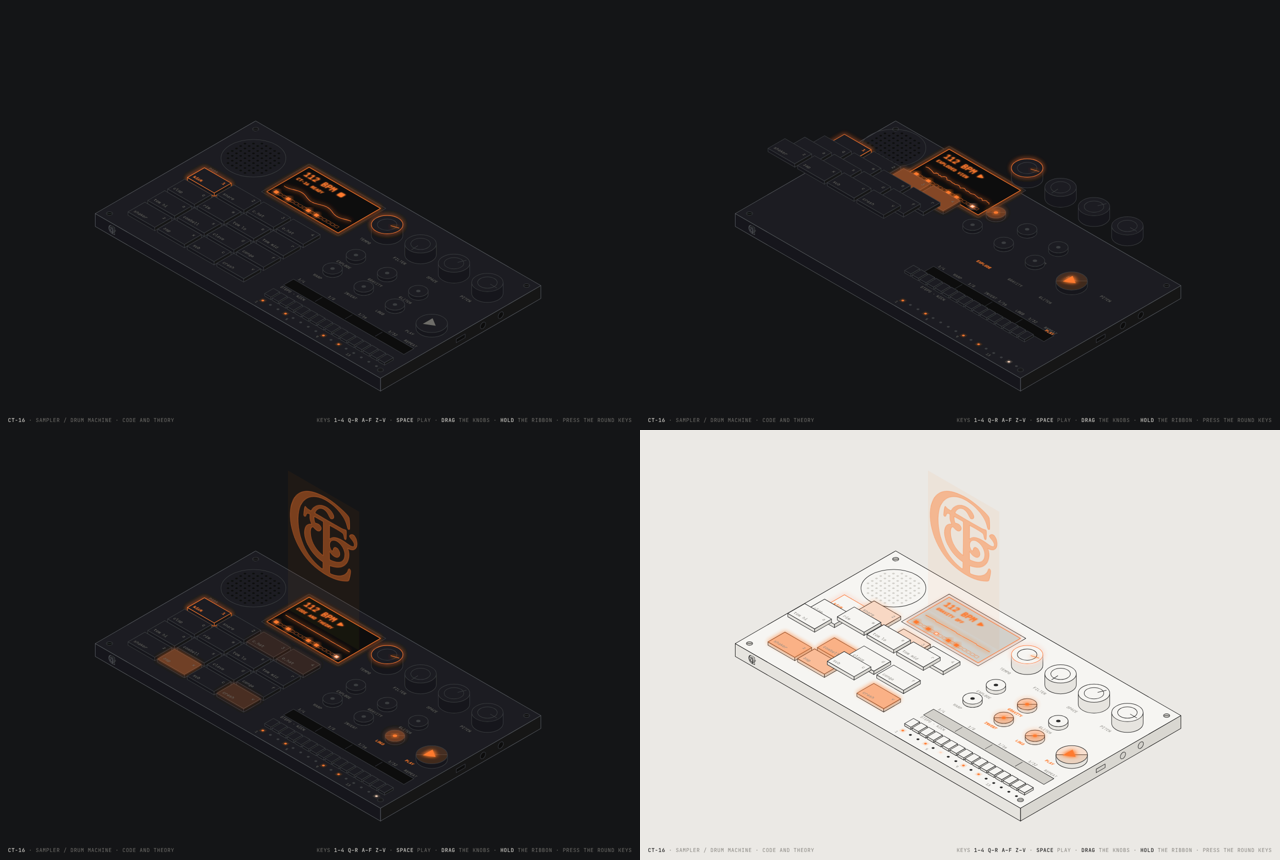
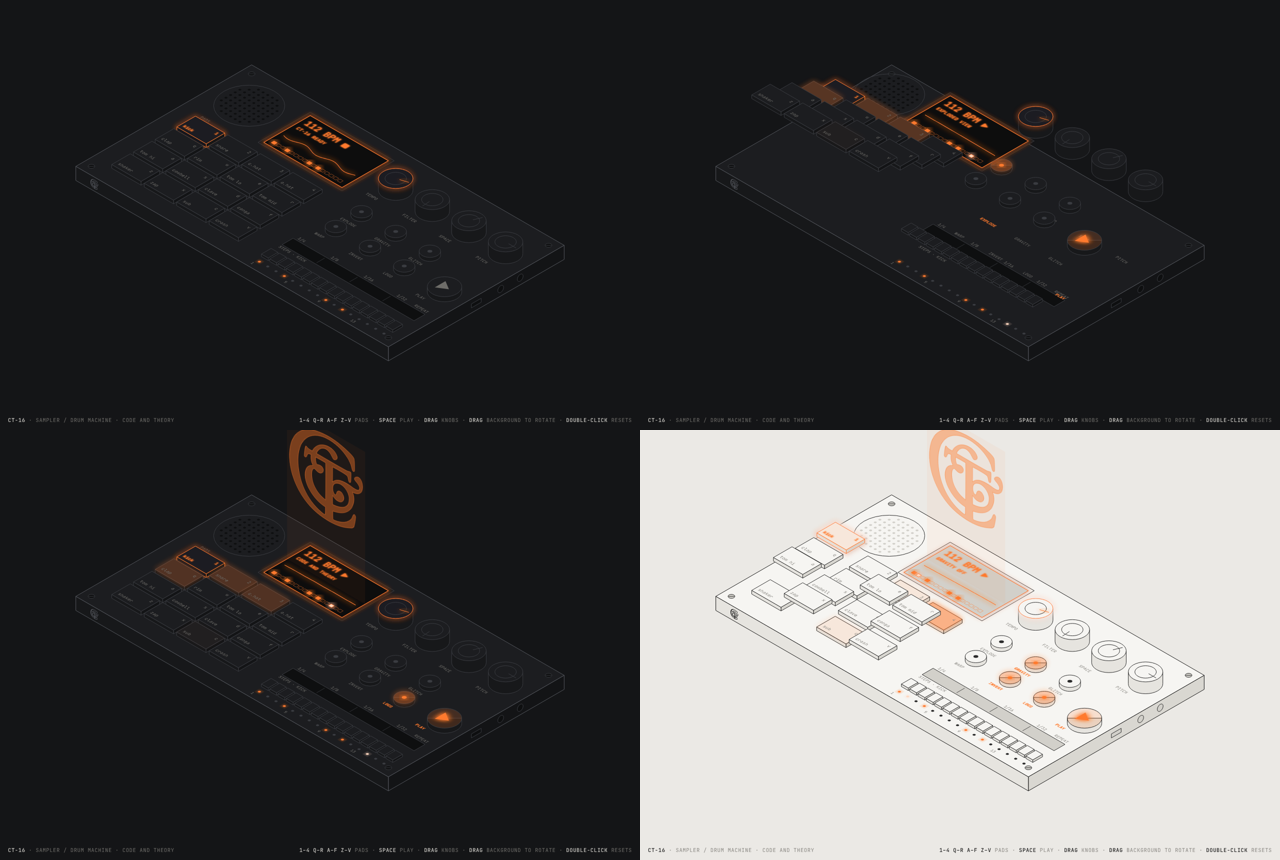
CT-16: orbit camera (drag to rotate/tilt), drop visual glitch and warp
The isometric projection is now a yaw/elevation orthographic camera:
visible box faces and draw order are computed per view, cylinders and
printed text follow the camera. Double-click returns to true isometric.
Glitch and Warp keep their audio effects but no longer distort the drawing.

Claude-Session: https://claude.ai/code/session_016YEvjY8Sb1Rc6rgUfMqNYL

diff --git a/ct-16/index.html b/ct-16/index.html
@@ -19,7 +19,7 @@
 html,body{height:100%;margin:0}
 body{background:var(--bg);color:var(--ink);font:400 12px/1.4 var(--mono);overflow:hidden;transition:background .5s;-webkit-font-smoothing:antialiased;user-select:none;-webkit-user-select:none}
 #wrap{position:fixed;inset:0;display:grid;grid-template-rows:minmax(0,1fr) auto}
-svg#dev{width:100%;height:100%;display:block;overflow:visible;touch-action:none}
+svg#dev{width:100%;height:100%;display:block;overflow:visible;touch-action:none;cursor:grab}
 .foot{display:flex;flex-wrap:wrap;justify-content:space-between;gap:6px 18px;padding:10px max(16px,env(safe-area-inset-left,0px)) calc(12px + env(safe-area-inset-bottom,0px)) max(16px,env(safe-area-inset-left,0px));font-size:10.5px;letter-spacing:.06em;text-transform:uppercase;color:var(--muted)}
 .foot b{color:var(--ink);font-weight:500}
 
@@ -54,36 +54,46 @@ polygon,polyline,line,path.ln,rect.ln{stroke:var(--line);stroke-width:1;vector-e
       <filter id="glitch" x="-10%" y="-10%" width="120%" height="120%"><feTurbulence id="gt" type="fractalNoise" baseFrequency="0.001 0.22" numOctaves="1" seed="2" result="t"/><feDisplacementMap id="gd" in="SourceGraphic" in2="t" scale="0" xChannelSelector="R" yChannelSelector="G"/></filter>
       <path id="ctlogo" d="M449.058 0.563424C486.612 -1.26056 525.096 1.49671 562.302 6.63126C600.769 11.9384 748.132 44.482 769.491 73.3887C777.317 83.9885 779.641 183.414 777.16 199.167C776.455 203.638 774.76 207.775 770.912 210.421C767.25 212.937 761.639 213.725 757.327 212.893C755.599 212.559 753.623 211.733 752.579 210.252C747.344 202.817 744.764 190.439 741.809 181.857C737.607 169.656 732.783 158.223 725.763 147.349C688.523 89.6665 617.544 53.9091 552.004 39.7234C456.298 19.0106 356.2 34.4799 273.63 87.7717C190.902 141.169 133.573 228.985 112.956 324.805C88.4068 438.909 106.484 580.139 170.657 678.992C220.564 755.871 296.581 807.031 386.06 826.036C396.416 828.236 415.946 834.091 425.096 828.132C430.718 820.584 428.773 761.217 428.759 747.374C293.343 744.858 153.823 633.726 193.338 486.53C201.06 457.769 221.556 427.784 246.623 411.575C256.635 405.102 268.909 399.477 279.547 393.608C255.077 358.537 255.44 332.559 259.264 292.174C220.07 294.287 220.447 299.58 203.581 338.413C195.967 355.941 176.143 352.86 176.618 344.492C177.697 325.444 185.703 248.774 193.861 236.333C202.511 230.973 207.735 237.414 215.065 241.552C229.146 249.503 256.584 247.497 272.883 247.333C298.149 194.649 336.794 150.288 390.352 125.347C429.882 106.939 477.807 98.0485 519.968 112.47C547.003 121.718 579.816 146.183 568.347 178.896C565.185 193.247 533.389 215.1 520.327 203.712C506.642 191.783 497.922 174.397 481.712 162.333C429.768 123.679 369.83 163.295 340.382 210.033C332.03 223.29 327.414 233.724 321.937 248.266C354.838 246.808 401.242 248.435 435.17 248.479C513.487 248.904 591.808 248.545 670.119 247.401C679.062 246.853 685.154 246.376 693.969 245.019C703.667 243.526 722.966 236.49 731.437 237.715C732.222 238.397 732.799 239.095 733.258 240.041C736.437 246.609 733.671 316.641 732.365 328.373C731.818 333.276 730.782 338.583 728.69 343.076C727.263 346.14 724.694 348.552 721.431 349.582C716.865 351.024 712.657 348.339 708.706 346.357C702.508 332.288 701.646 308.15 690.069 297.612C676.317 285.093 539.692 290.475 515.372 291.185C514.467 340.581 516.159 399.974 513.479 447.903C516.575 443.562 518.686 441.331 522.193 437.459C573.278 379.907 647.512 373.978 719.65 379.489C749.691 381.784 838.31 403.47 837.906 350.605C837.771 333.131 816.805 315.537 802.819 307.321C794.623 302.506 775.637 296.598 775.103 285.847C775.287 265.307 806.644 244.377 824.663 244.092C863.541 243.472 873.648 291.668 873.537 319.383C873.254 389.611 820.54 432.955 752.888 432.532C787.768 484.863 763.718 568.676 731.679 617.056C680.564 694.24 604.823 728.484 517.288 746.598C517.351 760.661 516.456 820.911 520.833 829.621C526.541 833.226 535.429 831.737 541.806 830.834C617.566 820.116 698.175 780.552 740.337 714.854C751.965 698.658 755.296 675.244 765.934 659.21C773.974 647.091 791.593 655.7 790.638 671.868C788.485 708.899 778.257 746.84 769.625 782.915C761.354 802.691 736.38 811.421 718.639 819.834C630.857 861.459 538.274 877.776 441.547 873.225C330.246 867.991 225.873 839.464 141.425 763.571C53.5155 684.567 5.46508 569.307 0.45419 452.05C-4.32037 340.321 28.4158 221.829 104.95 138.242C198.387 36.9875 316.858 6.98482 449.058 0.563424ZM678.181 448.128C658.039 430.218 631.545 421.152 604.653 422.969C602.837 423.093 601.022 423.248 599.209 423.424C545.336 433.091 508.596 470.286 518.322 527.611C522.102 549.889 550.794 583.079 561.471 546.483C567.043 527.383 571.518 506.813 594.366 501.351C604.398 499.054 622.731 500.367 630.301 506.559C671.641 540.375 641.182 603.261 593.698 610.572C562.663 615.35 546.632 609.31 522.895 593.329C521.962 592.7 521.042 592.048 520.136 591.38C517.546 589.324 516.77 587.948 513.95 587.711C513.509 592.409 513.878 597.165 513.945 601.88C514.303 627.54 515.419 653.401 515.316 679.049C608.567 673.696 713.709 633.355 713.644 520.088C713.628 494.533 697.309 464.96 678.181 448.128ZM432.254 290.106C415.622 289.457 398.976 289.281 382.335 289.572C362.656 289.825 331.386 291.214 312.594 290.348C310.37 315.356 311.93 338.868 327.78 359.223C346.954 353.422 372.766 344.616 391.891 354.622C410.569 364.394 407.445 387.221 398.173 402.76C389.947 416.313 376.758 426.122 361.412 430.099C339.324 435.671 318.065 424.541 298.211 415.716C252.689 432.333 264.224 523.208 277.142 558.31C280.481 567.51 284.654 576.387 289.598 584.834C319.095 631.205 357.907 658.38 411.949 670.301C418.333 671.649 424.734 672.923 431.147 674.127C432.597 590.832 433.278 507.524 433.186 424.216C433.2 380.361 433.96 333.75 432.254 290.106Z" fill-rule="evenodd"/>
     </defs>
-    <g id="root" filter="url(#glitch)"><g id="scene"></g></g>
+    <g id="root"><g id="scene"></g></g>
   </svg>
-  <div class="foot"><span><b>CT-16</b> · Sampler / drum machine · Code and Theory</span><span id="hint">Keys <b>1–4 Q–R A–F Z–V</b> · <b>Space</b> play · <b>drag</b> the knobs · <b>hold</b> the ribbon · press the round keys</span></div>
+  <div class="foot"><span><b>CT-16</b> · Sampler / drum machine · Code and Theory</span><span id="hint"><b>1–4 Q–R A–F Z–V</b> pads · <b>Space</b> play · <b>drag</b> knobs · <b>drag</b> background to rotate · <b>double-click</b> resets</span></div>
 </div>
 
 <script>
 (function(){
-var C=0.8660254, S=0.5, RX=1.2247449, RY=0.7071068, scene=document.getElementById("scene"), svg=document.getElementById("dev");
-svg.setAttribute("viewBox","-72 -52 194 160");
-function P(x,y,z){return [(x-y)*C,(x+y)*S-z]}
+var scene=document.getElementById("scene"), svg=document.getElementById("dev");
+svg.setAttribute("viewBox","-96 -78 192 146");
+/* orthographic camera: yaw around the vertical axis, elevation phi. yaw 0 + phi 35.26° = true isometric */
+var ISO_PHI=Math.asin(1/Math.sqrt(3)), cam={yaw:0,phi:ISO_PHI}, K=1.2247449, CX=64, CY=36, cy_=1, sy_=0, sp_=0, cp_=0;
+function camUpdate(){cy_=Math.cos(cam.yaw);sy_=Math.sin(cam.yaw);sp_=Math.sin(cam.phi);cp_=Math.cos(cam.phi)}
+camUpdate();
+function rot(x,y){var dx=x-CX,dy=y-CY,a=dx*cy_-dy*sy_,b=dx*sy_+dy*cy_;return [(a-b)/Math.SQRT2,(a+b)/Math.SQRT2]}
+function P(x,y,z){var r=rot(x,y);return [r[0]*K,(r[1]*sp_-z*cp_)*K]}
+function depth(x,y){return rot(x,y)[1]}
+function nview(nx,ny){var a=nx*cy_-ny*sy_,b=nx*sy_+ny*cy_;return [(a-b)/Math.SQRT2,(a+b)/Math.SQRT2]}
+function vis(nx,ny){return nview(nx,ny)[1]>0.001}
 function f2(n){return n.toFixed(2)}
 function pts(a){return a.map(function(p){var q=P(p[0],p[1],p[2]);return f2(q[0])+","+f2(q[1])}).join(" ")}
 function poly(a,cls,extra){return '<polygon class="'+(cls||"")+'" points="'+pts(a)+'" '+(extra||"")+'/>'}
 function box(x,y,z,w,d,h,cls,extra){
-  return '<g class="'+(cls||"")+'" '+(extra||"")+'>'+
-    poly([[x+w,y,z+h],[x+w,y+d,z+h],[x+w,y+d,z],[x+w,y,z]],"fr")+
-    poly([[x,y+d,z+h],[x+w,y+d,z+h],[x+w,y+d,z],[x,y+d,z]],"ff")+
-    poly([[x,y,z+h],[x+w,y,z+h],[x+w,y+d,z+h],[x,y+d,z+h]],"ft")+'</g>';
+  var sides=[[1,0,[[x+w,y,z+h],[x+w,y+d,z+h],[x+w,y+d,z],[x+w,y,z]]],[-1,0,[[x,y,z+h],[x,y+d,z+h],[x,y+d,z],[x,y,z]]],
+             [0,1,[[x,y+d,z+h],[x+w,y+d,z+h],[x+w,y+d,z],[x,y+d,z]]],[0,-1,[[x,y,z+h],[x+w,y,z+h],[x+w,y,z],[x,y,z]]]], g="";
+  sides.forEach(function(f){var n=nview(f[0],f[1]);if(n[1]>0.001)g+=poly(f[2],n[0]>0?"fr":"ff")});
+  return '<g class="'+(cls||"")+'" '+(extra||"")+'>'+g+poly([[x,y,z+h],[x+w,y,z+h],[x+w,y+d,z+h],[x,y+d,z+h]],"ft")+'</g>';
 }
 /* vertical cylinder: side band, then top ellipse */
 function cyl(cx,cy,z,r,h,cls,extra,topCls){
-  var b=P(cx,cy,z), X=b[0], Yb=b[1], Yt=Yb-h, rx=RX*r, ry=RY*r;
+  var b=P(cx,cy,z), X=b[0], Yb=b[1], Yt=Yb-h*cp_*K, rx=K*r, ry=K*r*sp_;
   return '<g class="'+(cls||"")+'" '+(extra||"")+'>'+
     '<path class="ln ff" d="M'+f2(X-rx)+' '+f2(Yt)+'L'+f2(X-rx)+' '+f2(Yb)+'A'+f2(rx)+' '+f2(ry)+' 0 0 0 '+f2(X+rx)+' '+f2(Yb)+'L'+f2(X+rx)+' '+f2(Yt)+'Z" style="stroke:var(--line);vector-effect:non-scaling-stroke"/>'+
     '<ellipse class="ln '+(topCls||"ft")+'" cx="'+f2(X)+'" cy="'+f2(Yt)+'" rx="'+f2(rx)+'" ry="'+f2(ry)+'" style="stroke:var(--line);vector-effect:non-scaling-stroke"/></g>';
 }
-function ell(cx,cy,z,r,cls,style){var b=P(cx,cy,z);return '<ellipse class="'+cls+'" cx="'+f2(b[0])+'" cy="'+f2(b[1])+'" rx="'+f2(RX*r)+'" ry="'+f2(RY*r)+'" style="'+(style||"")+'"/>'}
-function mTop(x,y,z,k){var q=P(x,y,z);return "matrix("+(C*k)+" "+(S*k)+" "+(-C*k)+" "+(S*k)+" "+f2(q[0])+" "+f2(q[1])+")"}
-function mFront(x,y,z,k){var q=P(x,y,z);return "matrix("+(C*k)+" "+(S*k)+" 0 "+k+" "+f2(q[0])+" "+f2(q[1])+")"}
-function mRight(x,y,z,k){var q=P(x,y,z);return "matrix("+(C*k)+" "+(-S*k)+" 0 "+k+" "+f2(q[0])+" "+f2(q[1])+")"}
+function ell(cx,cy,z,r,cls,style){var b=P(cx,cy,z);return '<ellipse class="'+cls+'" cx="'+f2(b[0])+'" cy="'+f2(b[1])+'" rx="'+f2(K*r)+'" ry="'+f2(K*r*sp_)+'" style="'+(style||"")+'"/>'}
+function basis(dx,dy,dz){var a=P(0,0,0),b=P(dx,dy,dz);return [b[0]-a[0],b[1]-a[1]]}
+function mat(u,v,q,k){return "matrix("+(u[0]*k).toFixed(4)+" "+(u[1]*k).toFixed(4)+" "+(v[0]*k).toFixed(4)+" "+(v[1]*k).toFixed(4)+" "+f2(q[0])+" "+f2(q[1])+")"}
+function mTop(x,y,z,k){return mat(basis(1,0,0),basis(0,1,0),P(x,y,z),k)}
+function mFront(x,y,z,k){return mat(basis(1,0,0),basis(0,0,-1),P(x,y,z),k)}
+function mRight(x,y,z,k){return mat(basis(0,-1,0),basis(0,0,-1),P(x,y,z),k)}
 function tTop(x,y,z,s,size,anchor,cls){return '<text transform="'+mTop(x,y,z,size/10)+'" font-size="10" text-anchor="'+(anchor||"start")+'" class="'+(cls||"lbl")+'">'+s+'</text>'}
 function tFront(x,y,z,s,size,anchor,cls){return '<text transform="'+mFront(x,y,z,size/10)+'" font-size="10" text-anchor="'+(anchor||"start")+'" class="'+(cls||"lbl")+'">'+s+'</text>'}
 function tRight(x,y,z,s,size,anchor,cls){return '<text transform="'+mRight(x,y,z,size/10)+'" font-size="10" text-anchor="'+(anchor||"start")+'" class="'+(cls||"lbl")+'">'+s+'</text>'}
@@ -111,9 +121,9 @@ function render(){
   o.push(box(0,0,0,W,D,H,"hi"));
   [[3.2,3.2],[W-3.2,3.2],[3.2,D-3.2],[W-3.2,D-3.2]].forEach(function(p){o.push(ell(p[0],p[1],Z,1,"ln deep","stroke:var(--line);vector-effect:non-scaling-stroke"));o.push(line([p[0]-.6,p[1]+.6,Z],[p[0]+.6,p[1]-.6,Z]))});
   /* side details */
-  o.push('<g>'+[18,26].map(function(yy){var b=P(W,yy,2.5);return '<circle class="deep" r="1.2" transform="'+mRight(W,yy,2.5,1)+'" style="stroke:var(--line);vector-effect:non-scaling-stroke"/>'}).join("")+'</g>');
-  o.push(poly([[W,34,3.2],[W,38,3.2],[W,38,1.8],[W,34,1.8]],"deep"));
-  o.push('<use href="#ctlogo" class="logo-print" transform="'+mFront(6,D,4.1,3.2/874)+'"/>');
+  if(vis(1,0))o.push('<g>'+[18,26].map(function(yy){var b=P(W,yy,2.5);return '<circle class="deep" r="1.2" transform="'+mRight(W,yy,2.5,1)+'" style="stroke:var(--line);vector-effect:non-scaling-stroke"/>'}).join("")+'</g>');
+  if(vis(1,0))o.push(poly([[W,34,3.2],[W,38,3.2],[W,38,1.8],[W,34,1.8]],"deep"));
+  if(vis(0,1))o.push('<use href="#ctlogo" class="logo-print" transform="'+mFront(6,D,4.1,3.2/874)+'"/>');
   /* speaker: dot field in a circle */
   var sx=14, sy=15, sr=9.5, sz=Z+off.spk;
   o.push(ell(sx,sy,sz,sr+.8,"ln","fill:none;stroke:var(--line);vector-effect:non-scaling-stroke"));
@@ -142,7 +152,7 @@ function render(){
   o.push(tTop(70,59.2,Z,"STEPS · "+NAMES[st.sel].toUpperCase(),1.5,"start"));
   /* raised parts, back to front */
   var items=[];
-  ENC.forEach(function(en,k){items.push({k:en.x+ENCY,f:function(){
+  ENC.forEach(function(en,k){items.push({k:depth(en.x,ENCY),f:function(){
     var z=Z+off.enc, h=4.2, a=-Math.PI*.75+st.enc[k]*Math.PI*1.5, hot=k===0;
     var g=cyl(en.x,ENCY,z,ENCR,h,"",'data-act="enc" data-i="'+k+'"',hot?"ft glowring":"ft");
     g+=ell(en.x,ENCY,z+h,ENCR*.62,"","fill:none;stroke:var(--line);vector-effect:non-scaling-stroke;pointer-events:none");
@@ -151,23 +161,23 @@ function render(){
     if(hot)g=g.replace('class="ln ft glowring"','class="ln ft" style="stroke:var(--glow);vector-effect:non-scaling-stroke;filter:url(#glow)"');
     g+=tTop(en.x-ENCR,ENCY+ENCR+2.6,Z,en.lbl,1.5,"start");
     return g}})});
-  FX.forEach(function(f,k){var c=k%3,r=Math.floor(k/3),x=76+c*14,y=31+r*10.5;items.push({k:x+y,f:function(){
+  FX.forEach(function(f,k){var c=k%3,r=Math.floor(k/3),x=76+c*14,y=31+r*10.5;items.push({k:depth(x,y),f:function(){
     var on=st.fxOn[f[1]], z=Z+off.btn+(on?-.5:0);
     var g=cyl(x,y,z,3.1,1.4,on?"act":"",'data-act="fx" data-fx="'+f[1]+'"',on?"ft":"ft");
     if(on)g+=ell(x,y,z+1.4,3.1,"","fill:var(--glow);opacity:.25;stroke:var(--glow);vector-effect:non-scaling-stroke;filter:url(#glow);pointer-events:none");
     g+=ell(x,y,z+1.4,.7,"",on?"fill:var(--glow);filter:url(#glow)":"fill:var(--line)");
     g+=tTop(x-3.4,y+5.6,Z,f[0],1.45,"start",on?"glowtext":"lbl");
     return g}})});
-  items.push({k:120+41,f:function(){var z=Z+off.btn+(st.playing?-.5:0),g=cyl(120,41,z,5,1.8,st.playing?"act":"",'data-act="play"');
+  items.push({k:depth(120,41),f:function(){var z=Z+off.btn+(st.playing?-.5:0),g=cyl(120,41,z,5,1.8,st.playing?"act":"",'data-act="play"');
     g+='<g transform="'+mTop(118.2,41,z+1.8,1)+'" style="pointer-events:none"><polygon points="0,-2.2 3.6,0 0,2.2" style="fill:'+(st.playing?"var(--glow)":"var(--muted)")+';stroke:none;'+(st.playing?"filter:url(#glow)":"")+'"/></g>';
     g+=tTop(115,48.2,Z,"PLAY",1.45,"start",st.playing?"glowtext":"lbl");return g}});
-  for(var r=0;r<4;r++)for(var c=0;c<4;c++)(function(r,c){var n=r*4+c,x=KEYS0.x+c*(KEYS0.w+KEYS0.g),y=KEYS0.y+r*(KEYS0.d+KEYS0.g);items.push({k:x+y+6,f:function(){
+  for(var r=0;r<4;r++)for(var c=0;c<4;c++)(function(r,c){var n=r*4+c,x=KEYS0.x+c*(KEYS0.w+KEYS0.g),y=KEYS0.y+r*(KEYS0.d+KEYS0.g);items.push({k:depth(x+KEYS0.w/2,y+KEYS0.d/2),f:function(){
     var z=Z+off.keys*(1+r*.3)+st.pz[n], sel=n===st.sel, g=box(x,y,z,KEYS0.w,KEYS0.d,KEYS0.h,sel?"sel":"",'data-act="pad" data-n="'+n+'"');
     if(st.flash[n]>.02)g+=poly([[x,y,z+KEYS0.h],[x+KEYS0.w,y,z+KEYS0.h],[x+KEYS0.w,y+KEYS0.d,z+KEYS0.h],[x,y+KEYS0.d,z+KEYS0.h]],"",'style="fill:var(--glow);opacity:'+(st.flash[n]*.55).toFixed(2)+';stroke:var(--glow);filter:url(#glow);pointer-events:none"');
     g+=tTop(x+1,y+KEYS0.d-1.3,z+KEYS0.h,NAMES[n],1.6,"start",sel?"glowtext":"lbl");
     g+=tTop(x+KEYS0.w-1,y+2.4,z+KEYS0.h,KEYS[n],1.6,"end",sel?"glowtext":"lbl");
     return g}})})(r,c);
-  for(i=0;i<16;i++)(function(i){var x=STEPS.x+i*(STEPS.w+STEPS.g);items.push({k:x+STEPS.y,f:function(){
+  for(i=0;i<16;i++)(function(i){var x=STEPS.x+i*(STEPS.w+STEPS.g);items.push({k:depth(x+1.4,STEPS.y+2),f:function(){
     var z=Z+off.steps,on=pat[st.sel][i],hd=st.playing&&st.step===i;
     var g=box(x,STEPS.y,z,STEPS.w,4,.9,"",'data-act="step" data-s="'+i+'"');
     g+='<circle class="'+(hd?"led-head":on?"led-on":"led-off")+'" r=".45" transform="'+mTop(x+1.4,STEPS.y+6.2,Z,1)+'" style="pointer-events:none"/>';
@@ -269,10 +279,13 @@ function fx(id){
 
 /* ---------- input ---------- */
 var drag=null;
-function toPlane(e,z){var pt=svg.createSVGPoint();pt.x=e.clientX;pt.y=e.clientY;var q=pt.matrixTransform(scene.getScreenCTM().inverse());var a=q.x/C,b=(q.y+z)/S;return [(a+b)/2,(b-a)/2]}
+function toPlane(e,z){var pt=svg.createSVGPoint();pt.x=e.clientX;pt.y=e.clientY;var q=pt.matrixTransform(scene.getScreenCTM().inverse());
+  var u=q.x/K,v=(q.y/K+z*cp_)/sp_,a=(u+v)/Math.SQRT2,b=(v-u)/Math.SQRT2;return [a*cy_+b*sy_+CX,-a*sy_+b*cy_+CY]}
 function ribX(e){var p=toPlane(e,Z+ease(st.explode)*5);return Math.min(.999,Math.max(0,(p[0]-RIB.x)/RIB.w))}
 svg.addEventListener("pointerdown",function(e){
-  var g=e.target.closest("[data-act]");if(!g)return;var a=g.getAttribute("data-act");
+  var g=e.target.closest("[data-act]");
+  if(!g){drag={kind:"orbit",x:e.clientX,y:e.clientY,yaw:cam.yaw,phi:cam.phi};svg.setPointerCapture(e.pointerId);svg.style.cursor="grabbing";return}
+  var a=g.getAttribute("data-act");
   if(a==="pad")hit(+g.getAttribute("data-n"));
   else if(a==="step"){var s=+g.getAttribute("data-s");pat[st.sel][s]=!pat[st.sel][s];st.dirty=true}
   else if(a==="play")play();
@@ -282,14 +295,17 @@ svg.addEventListener("pointerdown",function(e){
 });
 svg.addEventListener("pointermove",function(e){
   if(!drag)return;
+  if(drag.kind==="orbit"){camTween=null;cam.yaw=drag.yaw+(e.clientX-drag.x)*.008;cam.phi=Math.min(1.45,Math.max(.12,drag.phi+(e.clientY-drag.y)*.005));camUpdate();st.dirty=true;return}
   if(drag.kind==="enc"){var dy=drag.y-e.clientY;if(Math.abs(dy)>3)drag.moved=true;st.enc[drag.i]=Math.min(1,Math.max(0,drag.v+dy/180));applyEnc();say(encMsg(drag.i))}
   if(drag.kind==="rib"){var v=ribX(e);if(Math.floor(v*4)!==Math.floor(st.rib*4))ribbon(v);else{st.rib=v;st.dirty=true}}
 });
 svg.addEventListener("pointerup",function(){
   if(drag&&drag.kind==="enc"&&!drag.moved){st.enc[drag.i]=(Math.round(st.enc[drag.i]*8)+1)%9/8;applyEnc();say(encMsg(drag.i))}
   if(drag&&drag.kind==="rib")ribOff();
-  drag=null;
+  drag=null;svg.style.cursor="";
 });
+var camTween=null;
+svg.addEventListener("dblclick",function(e){if(e.target.closest("[data-act]"))return;camTween={y0:cam.yaw,p0:cam.phi,y1:Math.round(cam.yaw/(Math.PI*2))*Math.PI*2,p1:ISO_PHI,t0:performance.now()}});
 window.addEventListener("keydown",function(e){if(e.repeat)return;var i=KEYS.indexOf(e.key.toLowerCase());if(i>=0){hit(i);return}if(e.code==="Space"){e.preventDefault();play()}});
 
 /* ---------- loop ---------- */
@@ -303,9 +319,8 @@ function frame(now){
     if(st.flash[i]>0){st.flash[i]=Math.max(0,st.flash[i]-dt*3.2);busy=true}
     if(st.pz[i]>0||st.pv[i]>0){st.pv[i]-=70*dt;st.pz[i]+=st.pv[i]*dt;if(st.pz[i]<=0){st.pz[i]=0;if(st.pv[i]<-8){hit(i,true);st.pv[i]=-st.pv[i]*.45}else st.pv[i]=0}busy=true}
   }
-  if(st.glitch>0){st.glitch=Math.max(0,st.glitch-dt*.7);gd.setAttribute("scale",(st.glitch*14*Math.random()).toFixed(1));gt.setAttribute("seed",Math.floor(Math.random()*99));busy=true}else gd.setAttribute("scale","0");
-  root.setAttribute("transform",st.warp?"skewX("+(Math.sin(now/90)*6*st.warp).toFixed(2)+") scale(1,"+(1-.12*st.warp).toFixed(3)+")":"");
-  if(st.warp||st.playing||st.rib>=0||(st.msg&&now-st.msgT<1900)||!AC)busy=true;
+  if(camTween){var ct=Math.min(1,(now-camTween.t0)/700),ce=ease(ct);cam.yaw=camTween.y0+(camTween.y1-camTween.y0)*ce;cam.phi=camTween.p0+(camTween.p1-camTween.p0)*ce;camUpdate();busy=true;if(ct>=1)camTween=null}
+  if(st.playing||st.rib>=0||(st.msg&&now-st.msgT<1900)||!AC)busy=true;
   if(busy||st.dirty){render();st.dirty=false}
   requestAnimationFrame(frame);
 }
